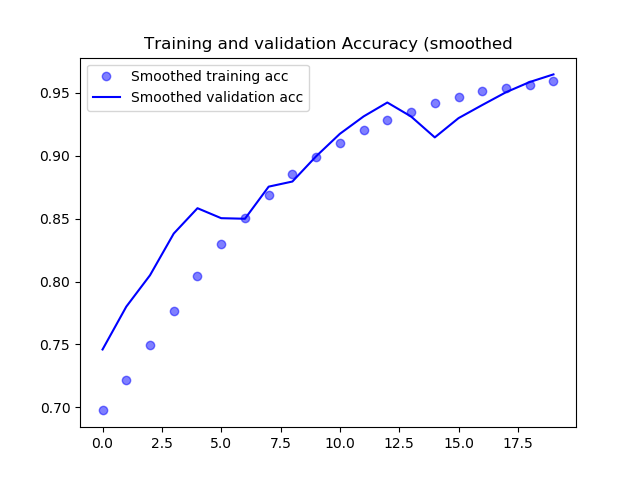
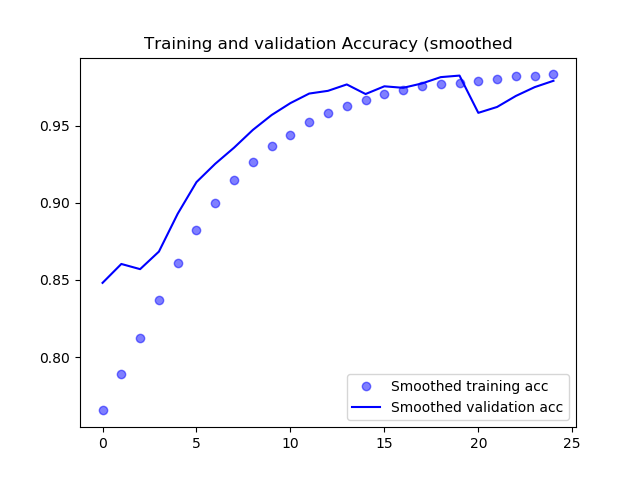
checkpoit half paralelised input transformation

diff --git a/cnn_withwavelength.py b/cnn_withwavelength.py
@@ -10,6 +10,9 @@ import time
 import pickle
 import os
 import glob
+import multiprocessing
+freeProc = 2
+n_proc=multiprocessing.cpu_count()-freeProc
 from sklearn.metrics import confusion_matrix #, classification_report, f1_score, roc_curve, auc
 from sklearn.model_selection import train_test_split
 from sklearn.preprocessing import MinMaxScaler
@@ -67,6 +70,22 @@ def read_data(locationSpectra):
     
     return X,y,X_scaled
 
+
+def paralellised_append(elem_X,elem_X_new,min_X,step):
+    for j in range(elem_X.shape[0]):
+        if(elem_X[j,0]>0):
+            elem_X_new[int((elem_X[j,0] - min_X) / step)].append(elem_X[j,1])
+    return elem_X_new
+
+def paralellised_assign(elem_X_new):
+    for j in range(elem_X_new.shape[0]):
+        elem_X_new[j] = np.array(elem_X_new[j])
+        if(elem_X_new[j].size > 0):
+            elem_X_new[j] = np.mean(np.array(elem_X_new[j]))
+        else:
+            elem_X_new[j] = 0.
+    return elem_X_new
+
 def prepare_cnn_entries(X,n_nodes=100):
     """
     This function transforms the wavelength input to a discrete input so that
@@ -77,7 +96,7 @@ def prepare_cnn_entries(X,n_nodes=100):
     min_X = np.min(X_nozeros[:,0])
     max_X = np.max(X_nozeros[:,0])
     del X_nozeros
-    gc.collect()    
+    gc.collect()  
 
     
     
@@ -87,14 +106,11 @@ def prepare_cnn_entries(X,n_nodes=100):
     X_new = [[[] for i in range(n_nodes)] for j in range(X.shape[0])]
 
     
-    print('Start converting to discrete wavelength inputs...')
+    print('Start converting to discrete wavelength inputs...')    
     for i in range(X.shape[0]):
         if(i % int(X.shape[0] / 10) == 0):
             print('Part 1.... ' + str(round(100*i/X.shape[0],0)) + ' % completed')
-        for j in range(X.shape[1]):
-            if(X[i,j,0]>0):
-                X_new[i][int((X[i,j,0] - min_X) / step)].append(X[i,j,1])
-                #print(X_new[i][int((X[i,j,0] - min_X) / step)])
+        X_new[i] = paralellised_append(X[i],X_new[i],min_X,step)
     
     #del X
     gc.collect()
@@ -105,12 +121,7 @@ def prepare_cnn_entries(X,n_nodes=100):
     for i in range(X_new.shape[0]):
         if(i % int(X_new.shape[0] / 10) == 0):
             print('Part 2.... ' + str(round(100*i/X_new.shape[0])) + ' % completed')
-        for j in range(X_new.shape[1]):
-            X_new[i,j] = np.array(X_new[i,j])
-            if(X_new[i,j].size > 0):
-                X_new[i,j] = np.mean(np.array(X_new[i,j]))
-            else:
-                X_new[i,j] = 0.
+        X_new[i] = paralellised_assign(X_new[i])
             
     print(np.count_nonzero(X_new))
     
@@ -227,9 +238,9 @@ if __name__ == '__main__':
     if not os.path.exists(location_plots):
         os.makedirs(location_plots) 
     
-    X,y,_ = read_data(locationSpectra)
+    _,y,X = read_data(locationSpectra)
     
-    n_nodes = 100
+    n_nodes = 300
     X = prepare_cnn_entries(X,n_nodes)
     X = X.reshape((X.shape[0],X.shape[1],1))
     print('Successfull')
@@ -254,7 +265,7 @@ if __name__ == '__main__':
     """
     
     # Choose hyperparameters
-    no_epochs = 20
+    no_epochs = 25
     batch_size = 32
     learning_rate = 0.0100
     dropout_rate = 0.05
